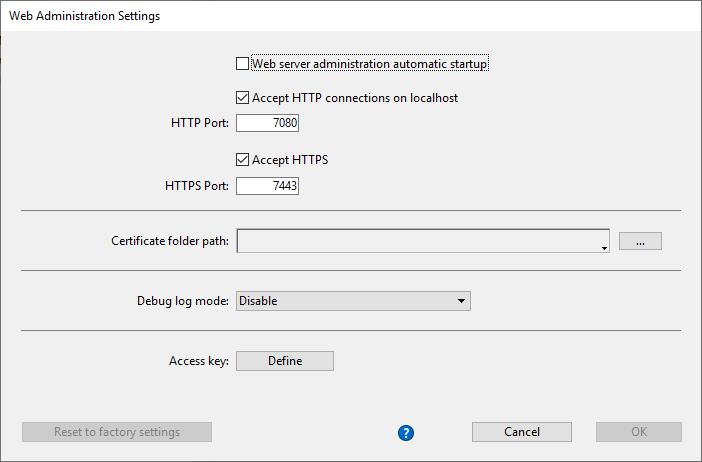
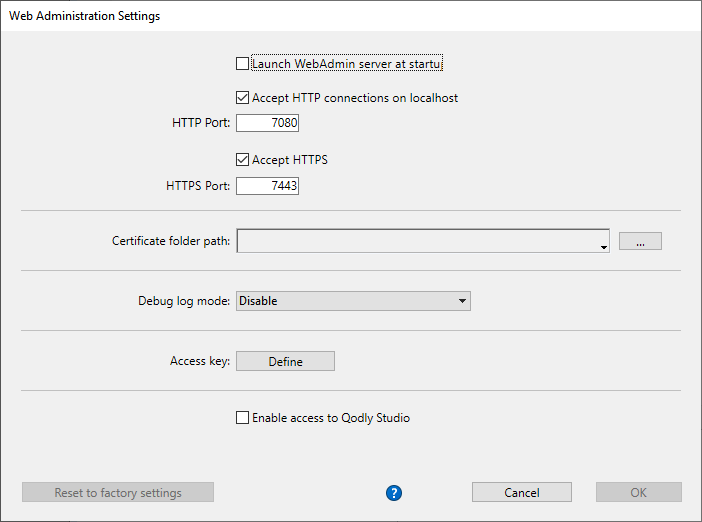
first draft, includes the whole page

diff --git a/docs/WebServer/qodly-studio.md b/docs/WebServer/qodly-studio.md
@@ -1,0 +1,198 @@
+---
+id: qodly-studio
+title: Qodly Studio
+---
+
+**Qodly Studio** is part of the **Qodly platform**, dedicated to the development of web business applications designed, tested and published entirely in the 4D cloud.
+
+As of 4D v20 R2, you can use Qodly Studio directly from 4D to build modern and sophisticated web interfaces that you can easily integrate to your existing 4D projects and deploy **on premise**. 
+
+With Qodly Studio, you will discover a totally new web UI, get familiar with the concept of datasources, and learn how to:
+
+- create webforms by placing components on a page
+- map components to data
+- trigger QodlyScript code by configuring events
+- and much more. 
+
+:::info
+
+The use of Qodly Studio in 4D requires a specific license. Qodly Studio options and menu items won't appear if the license is not activated.
+
+:::
+
+## Configuration
+
+### Requirements
+
+#### Browser 
+
+Qodly Studio supports the following web browsers:
+
+- Chrome
+- Edge
+- FireFox
+
+The recommended resolution is 1920x1080.
+
+#### 4D application
+
+Qodly Studio only works with 4D projects (binary databases are not supported).
+
+
+### Enabling access to Qodly Studio
+
+By default, access to the studio is not granted. 
+
+Qodly Studio is served by the [WebAdmin web server](../Admin/webAdmin.md) and displays data from 4D projects handled by the [4D web server](webServer.md). 
+
+To enable access to the studio, you must explicitly allow it at two levels: 
+
+* at the 4D application level, for global access
+* at every project level
+
+If one of the two levels (or both) are not enabled, access to the studio is denied (a 403 page is returned).
+
+#### At the application level
+
+As a first security level, you need to [allow access to the studio on the WebAdmin web server](../Admin/webAdmin.md#enable-access-to-qodly-studio).
+
+This setting applies to the 4D application (4D or 4D Server) on the host machine. All projects opened with that 4D application take this setting into account.
+
+Keep this option unchecked if you want to make sure no access to the studio is allowed on the application. 
+
+Check this option to make it possible to access the studio. However, you still need to enable it at every project level.
+
+Additionally, you can [configure the WebAdmin web server's HTTP/HTTPS port used](../Admin/webAdmin.md#accept-http-connections-on-localhost). 
+
+:::note 
+
+After any change to these settings, you must [restart the WebAdmin web server](../Admin/webAdmin.md#start-and-stop) for the new configuration to be effective.
+
+:::
+
+#### At the project level
+
+After you have enabled access to the studio at the application level, you need to explicitly designate every project that can be accessed. The **Enable access to Qodly Studio** option must be enabled on the [Web Features page of the 4D application's Settings](../settings/web.md#enable-access-to-qodly-studio). 
+
+Keep in mind that [user settings](../settings/overview.md) can be defined at several levels, and that priorities apply.
+
+
+### Activating authentication
+
+Authentication on the WebAdmin web server is granted using an access key. For more details, see [Access key](../Admin/webAdmin.md#access-key).
+
+### Enabling rendering
+
+To enable the [rendering of webforms](../rendering.md) that are created in the studio, the following options must be set.
+
+* The 4D project's **Settings** > **Web** > **Web Features** > [**Expose as REST server**](../settings/web.md#exposed-as-rest-server) option must be activated 
+* The [4D web server](webServer.md) must be running
+
+When rendering webforms, the renderer will connect to the 4D web server through HTTP or HTTPS, depending on the settings, following the same HTTP/HTTPS connection pattern as for the [WebAdmin web server](../Admin/webAdmin.md#accept-http-connections-on-localhost).
+
+### Exposed and non-exposed datasources 
+
+The renderer engine applies the REST resource restrictions defined in your 4D project's database. This means that only exposed datasources are rendered in the browser. 
+
+### WebAdmin server and deployment 
+
+For deployment, the WebAdmin server is not necessary. End-user access to your web application made with Qodly Studio is based on the 4D REST protocol, and as such, it works as through a conventional 4D remote application.
+
+## Opening Qodly Studio
+
+The Qodly Studio page is available when the [WebAdmin web server is running](../Admin/webAdmin.md#start-and-stop) and authentication is activated (see above). 
+
+There are two ways to access the studio:
+
+* from your 4D single-user application, go to **Design** > **Qodly Studio...**. 
+If the WebAdmin web server is already running, depending on its configuration, your default browser opens at `IPaddress:HTTPPort/studio` or `IPaddress:HTTPSPort/studio`. Otherwise, you will be prompted if you want to start the WebAdmin web server first.
+
+* on a browser, with the WebAdmin web server running (launched from 4D or 4D Server), enter the following address:
+ 	
+`IPaddress:HTTPPort/studio`
+		
+or:
+	
+`IPaddress:HTTPSPort/studio`
+
+For example, after launching a local web server on port 7080, type this address in your browser: 
+
+`localhost:7080/studio`
+
+You will then be prompted to enter the [access key](../Admin/webAdmin.md#access-key) to access the studio.
+
+
+## Qodly Studio Documentation
+
+The official Qodly Studio documentation is available on the [Qodly documentation website](developer.qodly.com/docs/studio).
+
+You can rely on this documentation and its associated resources for developing Qodly Studio-based webforms. However, keep in mind that some features (listed below) differ between on premise and cloud architecures.
+
+### Cloud-only features
+
+The following features, detailed in the Qodly Studio documentation, are only available for a usage in the Qodly Cloud architecture. They are therefore not supported Qodly Studio within 4D.
+
+- **Model editor**: the Qodly Studio Model editor is built upon the datastore and includes specific features. You cannot use this editor with your 4D databases. 
+- **Debugger (local mode)**: the Qodly Studio debugger can only be used when opening a 4D Server database from a remote 4D.
+- **QodlyScript**: the Qodly Studio documentation shows code examples that use **QodlyScript**, the built-in Qodly language (see below). 
+
+### 4D Language vs QodlyScript
+
+QodlyScript inherits from the 4D Language, but with some differences. If you're familiar with the 4D language, you won't be lost, just keep in mind the following QodlyScript's specific features.
+
+#### Variables
+
+- QodlyScript does not support process or inteprocess variables; only local variables are allowed, and their name should not start with the `$` character. Declaring variables using the `var` keyword is mandatory.
+- QodlyScript does not support arrays.
+
+#### Commands
+
+- QodlyScript only supports a subset of the 4D Language commands and their related concepts. They are listed in the QodlyScript reference manual.
+- All QodlyScript commands are written in camel case without spaces. Inherited 4D command names have been rewritten to fulfill this requirement. For example, the QodlyScript version of `New collection` is `newCollection`.
+
+#### Symbols and Keywords
+
+Some basic symbols, operators, and keywords differ between the 4D Language and QodlyScript. 
+
+|Description|4D Language|QodlyScript|
+|---|---|---|
+|argument separator|; |,|
+|assignment operator|:= |=|
+|comparison operator|= |==|
+||#Declare|declare|
+||Alias|alias|
+||Case of|switch|
+||Class constructor|constructor|
+||Class extends|extends|
+||Else|else|
+||End for|end|
+||End For each|end|
+||End if|end|
+||End case|end|
+||End use|end|
+||End while|end|
+||False|false|
+||For|for|
+||For each|forEach|
+||Function|function|
+||If|if|
+||Repeat|repeat|
+||This|this|
+||True|True|
+||Until|until|
+||Use|use|
+||While|while|
+|var types|||
+||Text|string|
+||Date|date|
+||Time|time|
+||Boolean|boolean|
+||Integer|integer|
+||Real|number|
+||Picture|picture|
+||Blob|blob|
+||Collection|collection|
+||Object|object|
+||Variant|variant|
+
+Unlisted items are identical.

diff --git a/docs/Admin/webAdmin.md b/docs/Admin/webAdmin.md
@@ -24,7 +24,7 @@ You can configure the `WebAdmin` web server to be launched at 4D or 4D Server ap
 
 ![alt-text](../assets/en/Admin/waMenu1.png)
 
-Check the **Web server administration automatic startup** option in the settings dialog box:
+Check the **Launch WebAdmin server at startup** option in the settings dialog box:
 
 ![alt-text](../assets/en/Admin/waSettings.png)
 
@@ -69,7 +69,7 @@ The following dialog box is displayed:
 
 ![alt-text](../assets/en/Admin/waSettings2.png)
 
-#### Web server administration automatic startup
+#### Launch WebAdmin server at startup
 
 Check this option if you want the `WebAdmin` web server to be automatically launched when the 4D or 4D Server application starts ([see above](#launching-at-startup)). By default, this option is not checked.
 
@@ -121,6 +121,16 @@ An access key is similar to a password but not associated to a login.
 - To define a new access key: click the **Define** button, enter the access key string in the dialog box and click **OK**. The button label becomes **Modify**.
 - To modify the access key: click the **Modify** button, enter the new access key string in the dialog box and click **OK**.
 - To delete the access key: click the **Modify** button, let the access key area empty and click **OK**.
+
+#### Enable access to Qodly Studio
+
+:::note
+
+This option only appears if the Qodly Studio license is activated.
+
+::: 
+
+This option enables user access to [Qodly Studio](XXX) at the 4D application level. Note that you also need to [enable the access at every project level](../Settings/web.md#enable-access-to-qodly-studio).
 
 
 ## WebAdmin Headless Configuration

diff --git a/docs/settings/web.md b/docs/settings/web.md
@@ -311,8 +311,14 @@ Starts and stops the REST Server. See [REST Server Configuration](../REST/config
 
 This option specifies a group of 4D users that is authorized to establish the link to the 4D database using REST requests. See [Configuring REST access](../REST/configuration.md#configuring-rest-access).
 
-### Web Studio
+### Qodly Studio
 
-#### Enable access to the web studio
+#### Enable access to Qodly Studio
 
-Enables general access to the web studio. You still need to configure it at every project level.
+:::note
+
+This option only appears if the Qodly Studio license is activated.
+
+::: 
+
+This option enables user access to [Qodly Studio](XXX) for the current project. Note that global access must be allowed at the [application level](../Admin/webAdmin.md).
